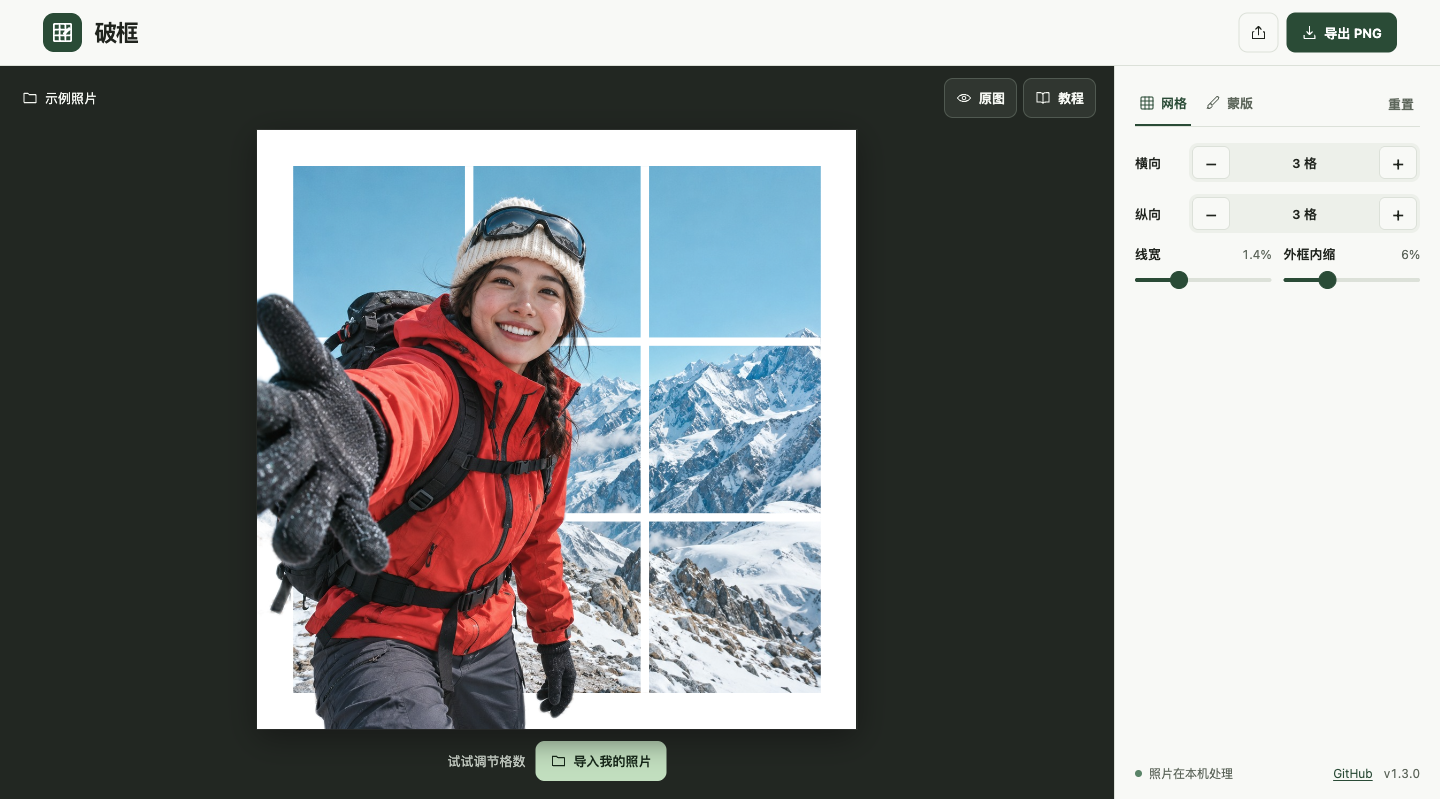
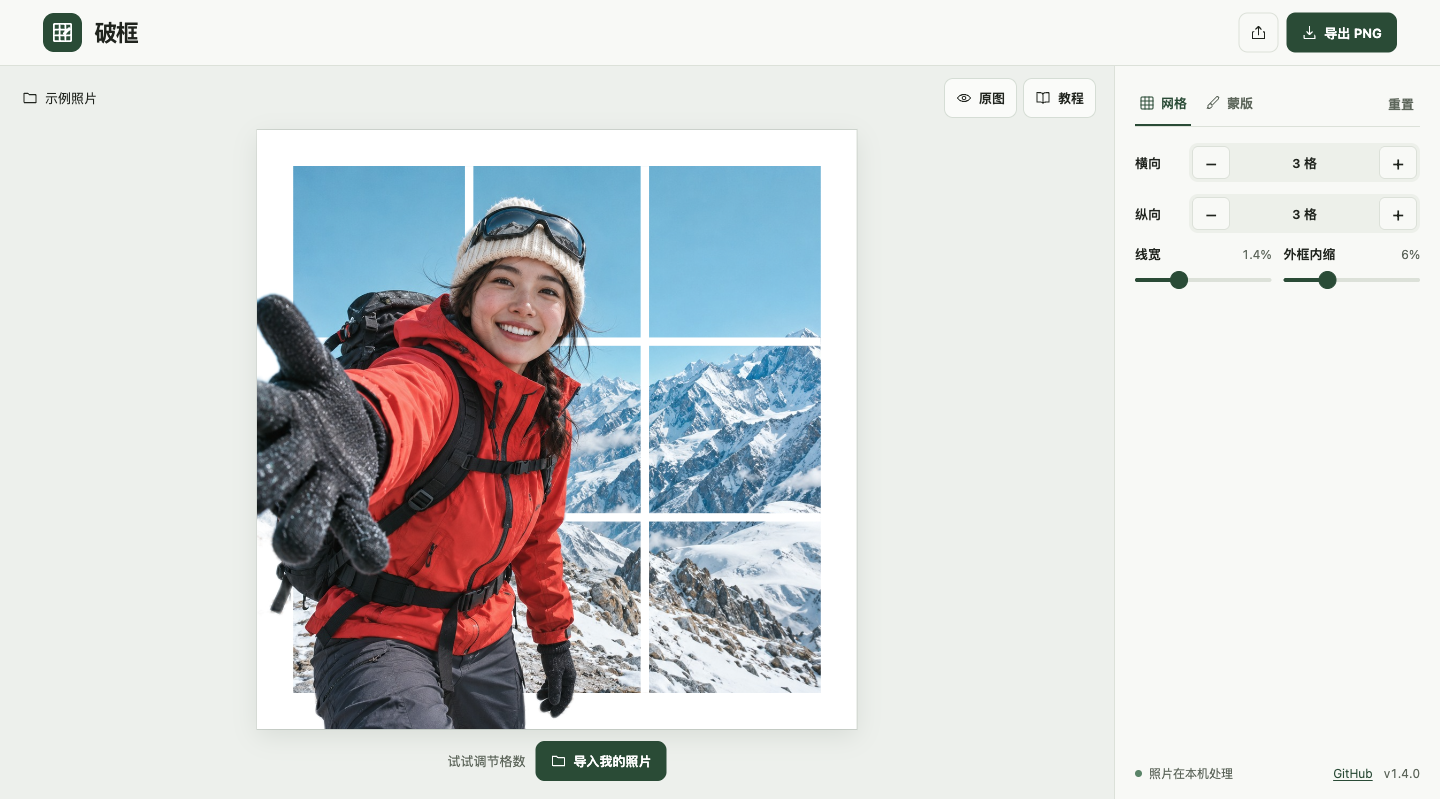
Use parallel mobile controls and a light photo workspace

diff --git a/src/style.css b/src/style.css
@@ -72,17 +72,16 @@ canvas[data-edit=true] { cursor: crosshair; touch-action: none; }
 }
 .workbody { flex: 1; min-height: 0; display: grid; grid-template-columns: minmax(0,1fr) clamp(280px, 24vw, 326px); }
 .workstage {
-  --paper: #303630; --ink: #f6f8f3; --muted: #c5cdc3; --line: #505950;
-  --control: #3b433a; --accent: #c1dfbd; --on-accent: #162718; --selected: #c9e1c8;
+  --paper: #fafbf9; --line: #d5ddd4;
   min-height: 0; min-width: 0; display: flex; flex-direction: column;
-  gap: 12px; padding: 12px 18px 18px; background: #222722; color: var(--ink);
+  gap: 12px; padding: 12px 18px 18px; background: #edf0ec; color: var(--ink);
 }
 .worktop, .preview-actions { display: flex; align-items: center; gap: 6px; }
 .worktop { min-height: 40px; justify-content: space-between; }
 .preview-actions { margin-inline-start: auto; flex: none; }
 .worktop .filename { padding-inline: 4px; font-size: 13px; }
 .worktop .btn[aria-pressed=true], .worktop .btn[aria-expanded=true] {
-  background: var(--selected); color: var(--on-accent); border-color: transparent;
+  background: var(--selected); color: var(--accent); border-color: transparent;
 }
 .worktop .btn { padding-inline: 11px; }
 .workstage .main-image {
@@ -91,7 +90,7 @@ canvas[data-edit=true] { cursor: crosshair; touch-action: none; }
 }
 .workstage .image-wrap {
   width: min(100cqw, calc(100cqh * var(--photo-ratio, 1)));
-  box-shadow: 0 8px 32px #111a, 0 0 0 1px #ffffff18;
+  box-shadow: 0 7px 25px #253a291c, 0 0 0 1px #253a2925;
 }
 .sample-guide {
   align-self: center; display: flex; flex-wrap: wrap; align-items: center; justify-content: center;
@@ -140,8 +139,10 @@ dialog h2 { font-size: 21px; letter-spacing: -.04em; }
   --accent: #294b35; --on-accent: #fff; --selected: #deeadf;
   display: flex; flex-direction: column;
 }
+.app.mobile { min-height: 0; }
 .mobile .app-head {
-  min-height: 60px; padding: max(7px, env(safe-area-inset-top)) 12px 7px;
+  min-height: 54px;
+  padding: max(5px, env(safe-area-inset-top)) max(12px, env(safe-area-inset-right)) 5px max(12px, env(safe-area-inset-left));
   gap: 10px;
 }
 .mobile .brand { gap: 8px; }
@@ -152,13 +153,16 @@ dialog h2 { font-size: 21px; letter-spacing: -.04em; }
 .mobile .head-actions .btn { min-height: 42px; padding-inline: 10px; font-size: 12px; }
 .mobile .head-actions .btn svg { width: 14px; height: 14px; }
 .mobile .workbody { display: flex; flex-direction: column; }
-.mobile .workstage { flex: 1; min-height: 0; padding: 7px 8px 10px; gap: 8px; }
-.mobile .worktop { padding-inline: 4px; min-height: 38px; }
-.mobile .worktop .btn { min-height: 38px; padding-inline: 9px; }
+.mobile .workstage {
+  flex: 1; min-height: 0; gap: 6px;
+  padding: 5px max(8px, env(safe-area-inset-right)) 7px max(8px, env(safe-area-inset-left));
+}
+.mobile .worktop { padding-inline: 4px; min-height: 36px; }
+.mobile .worktop .btn { min-height: 36px; padding-inline: 9px; }
 .mobile .worktop .filename { padding-inline: 0; }
 .mobile .worktop .filename [data-filename] { max-width: none; }
 .mobile .worktop .filename svg { display: none; }
-.mobile .sample-guide .btn { min-height: 40px; }
+.mobile .sample-guide .btn { min-height: 38px; }
 .tool-head { display: flex; justify-content: space-between; gap: 12px; border-bottom: 1px solid var(--line); }
 .tool-switch { display: flex; gap: 17px; }
 .tool-switch button {
@@ -170,10 +174,11 @@ dialog h2 { font-size: 21px; letter-spacing: -.04em; }
 .tool-switch svg { width: 16px; height: 16px; }
 .tool-head .btn { min-height: 44px; }
 .tool-panel { display: grid; align-content: start; min-height: 177px; gap: 12px; padding-top: 12px; }
-.mobile .layout-controls { gap: 8px; }
-.mobile .layout-row { grid-template-columns: 48px minmax(0,1fr); gap: 8px; }
+.mobile .layout-controls { grid-template-columns: repeat(2, minmax(0,1fr)); gap: 7px; }
+.mobile .layout-row { grid-template-columns: minmax(0,1fr); gap: 4px; }
+.mobile .control-label { padding-inline-start: 2px; }
 .mobile .stepper { grid-template-columns: 44px minmax(0,1fr) 44px; }
-.mobile .stepper button { min-height: 40px; }
+.mobile .stepper button { min-height: 44px; }
 .tool-sliders { display: grid; grid-template-columns: repeat(2,minmax(0,1fr)); gap: 19px; }
 .tool-sliders .field { gap: 0; }
 .tool-sliders input { height: 33px; }
@@ -225,8 +230,14 @@ dialog h2 { font-size: 21px; letter-spacing: -.04em; }
 #share-dialog .dialog-actions { flex-wrap: wrap; }
 .mobile .head-actions .share-button { padding-inline: 0; }
 .mobile .head-actions .share-button svg { display: block; }
-.mobile .filmstrip button { flex-basis: 72px; }
-.mobile .filmstrip img { height: 40px; }
+.mobile .history { gap: 4px; }
+.mobile .filmstrip {
+  display: grid; grid-template-columns: repeat(3, minmax(0,1fr));
+  overflow: visible; gap: 5px; padding-inline: 2px;
+}
+.mobile .filmstrip img { height: 34px; }
+.history .history-arrow { min-width: 38px; padding-inline: 0; font-size: 19px; }
+.history [data-action=remove] { min-width: 48px; }
 
 .inspector .tool-switch { gap: 10px; }
 .inspector .tool-switch button { white-space: nowrap; }
@@ -236,13 +247,19 @@ dialog h2 { font-size: 21px; letter-spacing: -.04em; }
 .inspector .tool-sliders { gap: 12px; }
 .mobile .inspector {
   background: var(--paper); border: 0; border-top: 1px solid var(--line); border-radius: 20px 20px 0 0;
-  flex: none; overflow: hidden; padding: 0 12px max(5px, env(safe-area-inset-bottom));
+  flex: none; overflow: visible;
+  padding: 0 max(10px, env(safe-area-inset-right)) max(5px, env(safe-area-inset-bottom)) max(10px, env(safe-area-inset-left));
 }
 .tool-actions { display: flex; align-items: center; gap: 4px; }
 .mobile .inspector .tool-panel {
-  padding-block: 9px 3px; min-height: 0; max-height: min(29dvh, 15rem); overflow-y: auto;
+  padding-block: 6px 4px; min-height: 0; gap: 6px;
 }
 .mobile .inspector .tool-switch { flex: 1; justify-content: space-around; }
+.mobile .tool-switch button { padding-inline: 10px; }
+.mobile .tool-sliders input { height: 32px; }
+.mobile .subject-card { grid-template-columns: 36px minmax(0, 1fr); }
+.mobile .subject-card .subject-icon { height: 36px; }
+.mobile .mask-instruction { margin-top: 0; }
 .mobile .inspector [data-action=collapse] svg { display: block; }
 .mobile .inspector .editor-footer { display: none; }
 
@@ -260,4 +277,24 @@ dialog h2 { font-size: 21px; letter-spacing: -.04em; }
   .guide-steps strong { font-size: 12px; }
   .guide-steps p { font-size: 12px; }
   .guide-steps img { border-radius: 5px; }
+}
+
+@media (orientation: landscape) and (max-height: 480px) {
+  .mobile .workbody { display: grid; grid-template-columns: minmax(0, 1fr) minmax(262px, 42vw); }
+  .mobile .inspector {
+    border-radius: 0; border: 0; border-left: 1px solid var(--line);
+    padding-left: 10px;
+  }
+  .mobile .workstage { padding-right: 8px; }
+  .mobile .tool-switch button { padding-inline: 4px; }
+  .mobile .stepper { grid-template-columns: 40px minmax(0,1fr) 40px; }
+}
+@media (max-height: 440px) {
+  #guide-dialog { padding: 11px 14px; }
+  .guide-steps { margin-block: 9px; }
+  .guide-steps img { height: 72px; object-fit: cover; }
+  #share-dialog .share-preview canvas { width: min(100%, 108px); }
+  #share-dialog { padding: 12px; }
+  #share-dialog .share-preview { margin-block: 7px; }
+  .mobile .sample-guide .btn { min-height: 36px; }
 }

diff --git a/src/app.js b/src/app.js
@@ -60,7 +60,10 @@ function preview() {
     '<div class="sample-guide" data-sample-guide hidden><span>试试调节格数</span>' +
     button('open', '导入我的照片', 'folder', 'primary') + '</div>' +
     '<section id="photo-history" class="history" aria-label="编辑历史" data-history hidden>' +
-    '<div class="filmstrip" data-filmstrip></div>' + button('remove', '移除当前照片', null, 'text') + '</section></section>';
+    '<button type="button" class="btn history-arrow" data-history-step="-1" aria-label="上一页历史" hidden>‹</button>' +
+    '<div class="filmstrip" data-filmstrip></div>' +
+    '<button type="button" class="btn history-arrow" data-history-step="1" aria-label="下一页历史" hidden>›</button>' +
+    '<button type="button" class="btn text" data-action="remove" aria-label="移除当前照片">移除</button></section></section>';
 }
 function footer() {
   return '<footer class="editor-footer subtle"><span><span class="dot"></span>照片在本机处理</span>' +
@@ -91,7 +94,7 @@ function editor() {
 }
 
 const stage = document.getElementById('stage');
-const phone = matchMedia('(max-width: 700px)');
+const phone = matchMedia('(max-width: 700px), (orientation: landscape) and (max-height: 480px) and (max-width: 960px)');
 const defaults = {rows: 3, columns: 3, width: 1.4, inset: 6};
 const state = {...defaults, original: false, brush: null, panel: 'grid', maskStatus: 'empty', filename: ''};
 const photo = document.createElement('canvas');
@@ -119,6 +122,8 @@ const lastPhotoKey = 'photo-breakout-active-photo';
 let selectedID;
 let showingSample = false;
 let historyOpen = false;
+let historyPage = 0;
+const historyPageSize = 3;
 let mobileToolsOpen = false;
 let photoRevision = 0;
 let statusTimer;
@@ -303,11 +308,16 @@ function thumbnailFor(image) {
   canvas.getContext('2d').drawImage(image, (image.naturalWidth-size)/2, (image.naturalHeight-size)/2, size, size, 0, 0, 128, 128);
   return new Promise(resolve => canvas.toBlob(resolve, 'image/jpeg', .79));
 }
-function refreshHistory() {
+function refreshHistory({showSelected = false} = {}) {
   const strip = stage.querySelector('[data-filmstrip]');
-  if (!strip) return;
   const scroll = strip.scrollLeft;
-  const items = [...entries.values()].sort((a,b) => b.createdAt - a.createdAt).map(entry => {
+  const ordered = [...entries.values()].sort((a,b) => b.createdAt - a.createdAt);
+  const selectedIndex = showSelected ? ordered.findIndex(entry => entry.id === selectedID) : -1;
+  if (selectedIndex >= 0 && phone.matches) historyPage = Math.floor(selectedIndex / historyPageSize);
+  historyPage = Math.min(historyPage, Math.max(0, Math.ceil(ordered.length / historyPageSize) - 1));
+  const offset = historyPage * historyPageSize;
+  const visible = phone.matches ? ordered.slice(offset, offset + historyPageSize) : ordered;
+  const items = visible.map(entry => {
     const item = document.createElement('button');
     item.type = 'button';
     item.dataset.photo = entry.id;
@@ -433,6 +443,11 @@ function sync() {
   app.querySelector('.header-import').hidden = showingSample;
   app.querySelector('[data-history]').hidden = !historyOpen || entries.size === 0;
   app.querySelector('[data-history-count]').textContent = entries.size;
+  app.querySelectorAll('[data-history-step]').forEach(node => {
+    const next = historyPage + Number(node.dataset.historyStep);
+    node.hidden = !phone.matches || entries.size <= historyPageSize;
+    node.disabled = removing || next < 0 || next * historyPageSize >= entries.size;
+  });
   const historyToggle = app.querySelector('[data-action=toggleHistory]');
   historyToggle.hidden = entries.size === 0;
   historyToggle.setAttribute('aria-expanded', historyOpen);
@@ -491,7 +506,10 @@ function exportImage() {
 const actions = {
   open: () => fileInput.click(),
   tutorial: () => guide.showModal(),
-  toggleHistory: () => { historyOpen = !historyOpen; },
+  toggleHistory: () => {
+    historyOpen = !historyOpen;
+    if (historyOpen && phone.matches) refreshHistory({showSelected: true});
+  },
   collapse: () => {
     stage.querySelector('[data-panel-button=' + state.panel + ']').focus({preventScroll: true});
     setPanel('grid');
@@ -526,10 +544,14 @@ const actions = {
   },
 };
 stage.addEventListener('click', event => {
-  const pressed = event.target.closest('[data-action], [data-axis], [data-panel-button], [data-photo]');
+  const pressed = event.target.closest('[data-action], [data-axis], [data-panel-button], [data-photo], [data-history-step]');
   if (!pressed) return;
-  const {action, axis, step, panelButton, photo: id} = pressed.dataset;
+  const {action, axis, step, panelButton, historyStep, photo: id} = pressed.dataset;
   if (action) actions[action]();
+  if (historyStep) {
+    historyPage += Number(historyStep);
+    refreshHistory();
+  }
   if (id) {
     historyOpen = false;
     stage.querySelector('[data-action=toggleHistory]').focus({preventScroll: true});
@@ -588,6 +610,7 @@ fileInput.addEventListener('change', async () => {
     }
   }
   importing = false;
+  if (first) historyPage = 0;
   refreshHistory();
   if (first) {
     openPhoto(first, true);
@@ -670,6 +693,7 @@ stage.addEventListener('pointermove', event => {
 
 function updateLayout() {
   stage.firstElementChild.classList.toggle('mobile', phone.matches);
+  refreshHistory({showSelected: true});
   sync();
 }
 stage.innerHTML = editor();
